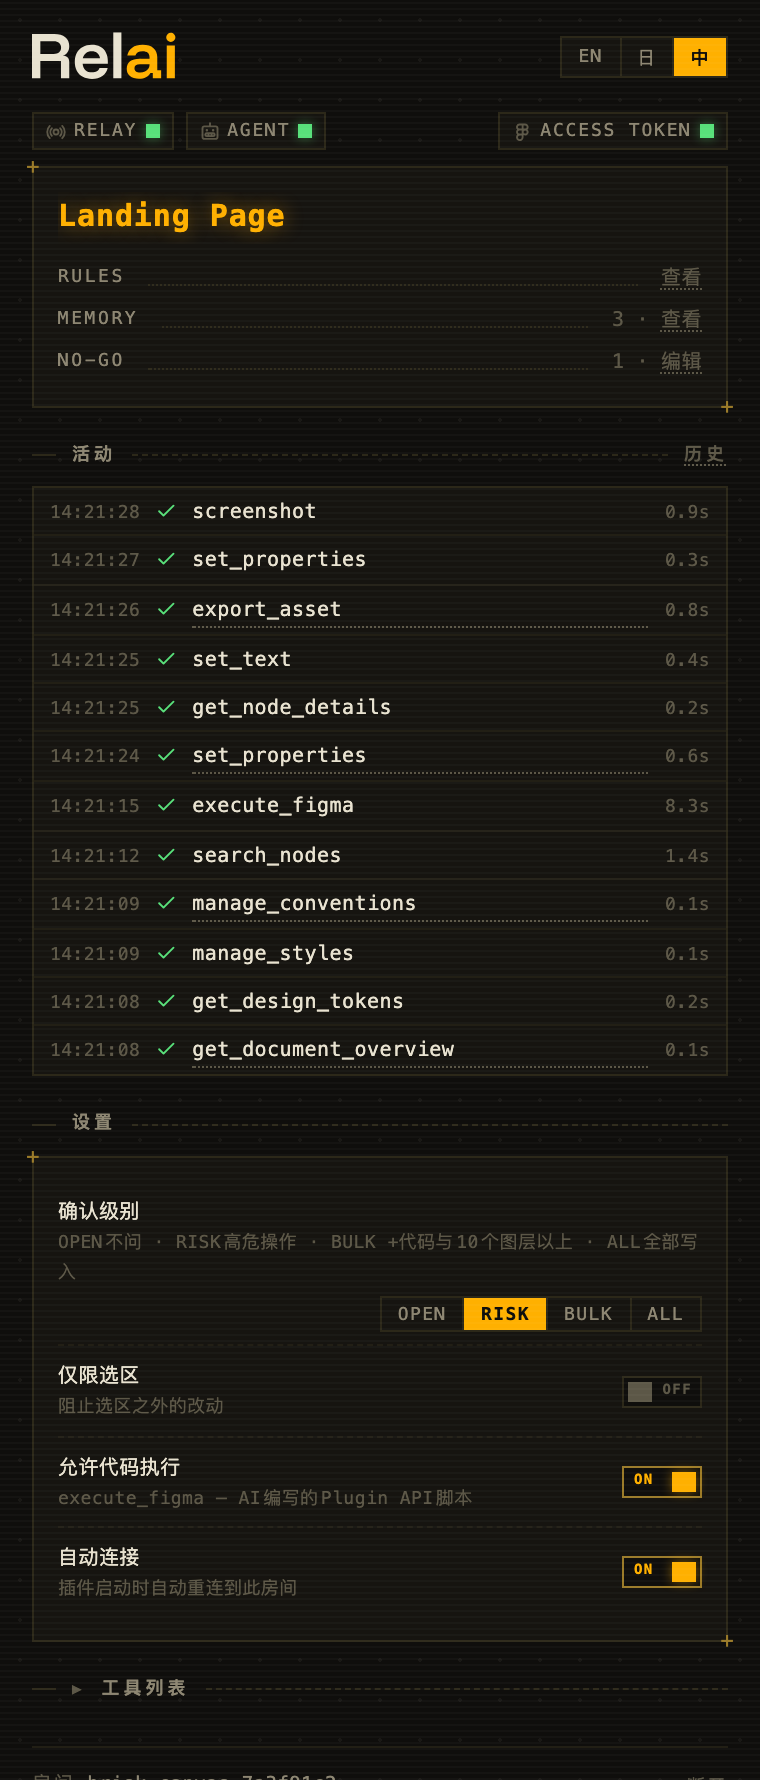
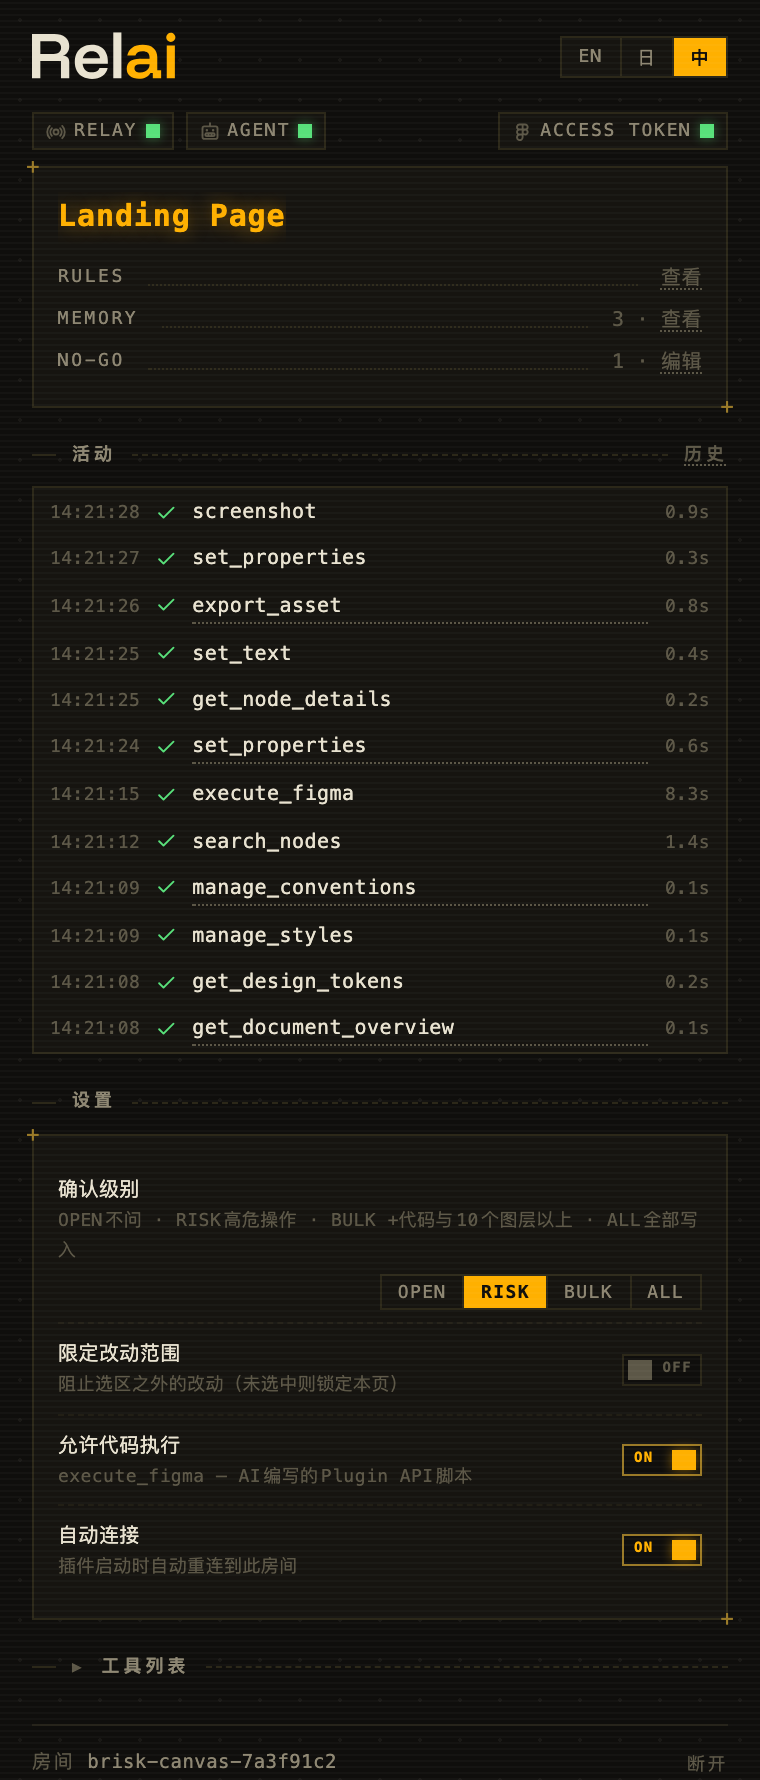
Release 0.7.0
Claude-Session: https://claude.ai/code/session_01LE9DxpFc66NXBEVTWs7co9

diff --git a/packages/mcp-server/src/tools/core/file-identity.ts b/packages/mcp-server/src/tools/core/file-identity.ts
@@ -73,14 +73,14 @@ export async function resolveFileIdentity(sendCommand: SendCommandFn): Promise<F
   const candidates = probe?.candidates ?? [];
   if (candidates.length === 0) {
     throw new FileIdentityError(
-      "This file publishes no components, so its key cannot be resolved from the plugin (figma.fileKey is private-plugin-only). Pass fileUrl."
+      "This file publishes no components, so its key cannot be resolved from the plugin (figma.fileKey is private-plugin-only)."
     );
   }
 
   const token = loadToken();
   if (!token) {
     throw new FileIdentityError(
-      "Resolving the file key needs a Figma token — store one with `npx -y figma-relai@latest login`, or pass fileUrl."
+      "Resolving the file key needs a Figma token — store one with `npx -y figma-relai@latest login`."
     );
   }
 
@@ -111,7 +111,7 @@ export async function resolveFileIdentity(sendCommand: SendCommandFn): Promise<F
     throw new FileIdentityError(
       denied
         ? "Figma rejected the token on every probe (401/403) — it is expired or lacks the file content read scope. Re-run `npx -y figma-relai@latest login`."
-        : "None of this file's published component keys resolved. Pass fileUrl."
+        : "None of this file's published component keys resolved."
     );
   }
 

diff --git a/packages/mcp-server/src/tools/core/comments.ts b/packages/mcp-server/src/tools/core/comments.ts
@@ -140,7 +140,7 @@ export function register(server: McpServer, sendCommand: SendCommandFn): void {
             fileKey = addressableKey(identity);
           } catch (err) {
             return textResult(
-              `${(err as Error).message} Pass fileUrl with the figma.com URL of the file (or branch) you mean.`
+              `${(err as Error).message} Pass fileUrl with the figma.com URL of the file — or of the branch, since comments live per branch.`
             );
           }
         }

diff --git a/packages/figma-plugin/ui.html b/packages/figma-plugin/ui.html
@@ -1012,7 +1012,7 @@
   </div>
 
   <!-- Footer -->
-  <div class="footer"><span class="dockpair" aria-hidden="true"><i></i><i></i></span> Relai v0.6.5 <span class="dockpair flip" aria-hidden="true"><i></i><i></i></span></div>
+  <div class="footer"><span class="dockpair" aria-hidden="true"><i></i><i></i></span> Relai v0.7.0 <span class="dockpair flip" aria-hidden="true"><i></i><i></i></span></div>
 
   <script>
     // ---------- i18n ----------

diff --git a/packages/mcp-server/src/index.ts b/packages/mcp-server/src/index.ts
@@ -14,7 +14,7 @@ import { loadState, saveState } from "./state.js";
 import { registerPrompts } from "./prompts.js";
 import { recordCommand, getSessionLog } from "./session-log.js";
 
-const VERSION = "0.6.5";
+const VERSION = "0.7.0";
 
 // Parse CLI arguments
 const args = process.argv.slice(2);

diff --git a/packages/relay/src/index.ts b/packages/relay/src/index.ts
@@ -14,7 +14,7 @@ const PORT = parseInt(process.env.PORT || "9055");
 const HOST = process.env.HOST || "127.0.0.1";
 
 const core = new RelayCore<ServerWebSocket<unknown>>({
-  version: "0.6.5",
+  version: "0.7.0",
   log: (msg) => console.log(msg),
 });
 

diff --git a/packages/mcp-server/src/server.ts b/packages/mcp-server/src/server.ts
@@ -5,7 +5,7 @@ export function createServer(): McpServer {
   return new McpServer(
     {
       name: "Relai",
-      version: "0.6.5",
+      version: "0.7.0",
     },
     {
       instructions: `

diff --git a/site/src/lib/translations.ts b/site/src/lib/translations.ts
@@ -1,6 +1,6 @@
 import type { Language } from './i18n';
 
-export const VERSION = 'v0.6.5';
+export const VERSION = 'v0.7.0';
 
 export const translations = {
   en: {

diff --git a/CHANGELOG.md b/CHANGELOG.md
@@ -1,5 +1,17 @@
 # Changelog
 
+## 0.7.0
+
+Things that looked fine and did nothing — a lamp lit for a dead token, a switch wired to no layer, a lock that came back off, and an auto-detect that had never once succeeded.
+
+- **Relai finds the wiring that isn't there.** A component set can declare a property no variant references: the panel shows the control, the designer toggles it, nothing happens, and nothing is ever raised. `execute_figma` reports it now, and `validate_design_rules` gained a `property_wiring` rule for the same fault. A second rule catches the one that produced it more than once — `clone()` downgrades a SLOT child to a plain FRAME and drops its `slotContentId`, so a copied variant loses its slot while looking identical to its siblings. Documentation had already failed at this twice: neither fault throws, so only a declared-versus-referenced comparison finds them. Reaching one of the four dead properties in a real design system took a single scan.
+- **The plugin can finally say which file it is looking at.** `figma.fileKey` is gated to private organisation plugins, so a Community plugin always read `null` and "auto-detected from the open plugin when possible" was never once possible. It is resolved the long way now — a published component's key names the main file, and the branch list names the branch. That last hop is not bookkeeping: comments live per branch, so three pins on a branch used to come back as an empty list from the parent file. The answer is cached in the plugin's own storage, never in the designer's file.
+- **A comment is somewhere, and now it says where.** `client_meta` arrives in four documented shapes plus at least one undocumented field, and everything but `node_id` was being thrown away — a pin on a component and a pin on empty canvas read identically, and a region comment covering an area did not report that it was a region. It is passed through whole, and each pin is resolved to a node, a page and a canvas position, because an offset inside an unknown frame locates nothing.
+- **The access-token lamp reports whether the token works, not whether one exists.** An expired token lit green while every REST call failed, and library discovery told you "every candidate 404'd" about a run of 403s. Validity is checked once at startup and again the moment Figma refuses a call.
+- **The scope lock covers a page, and survives a reload.** A PAGE cannot be selected in Figma, so there was no way to say "only this page" — flipping the switch with nothing selected now means exactly that. And the lock persists: coming back off after a plugin reload is a safety regression, not a convenience.
+- **"The Figma plugin is not open" stops being said about a plugin that is open.** Presence was cached and only ever refreshed by a pushed event, so a plugin that closed and reopened could leave the cache stuck on false — while `join_room`, which asks the relay instead of trusting the cache, listed it happily. It asks now.
+- **The panel says which branch, how far along, and what is moving.** The file card carries the parent file with the branch trailing behind a git-branch mark that never gets truncated; progress stops being a bare number; and the activity feed opens and closes for a row instead of jolting, with a mark that breathes while a command runs. Three more pitfalls, 57 now, including the one where a retired variable keeps resolving and keeps rendering because a consumer scan stopped at the first instance.
+
 ## 0.6.5
 
 Six more pitfalls, 54 now — every one of them found by taking components apart, and four of them by getting it wrong first.
